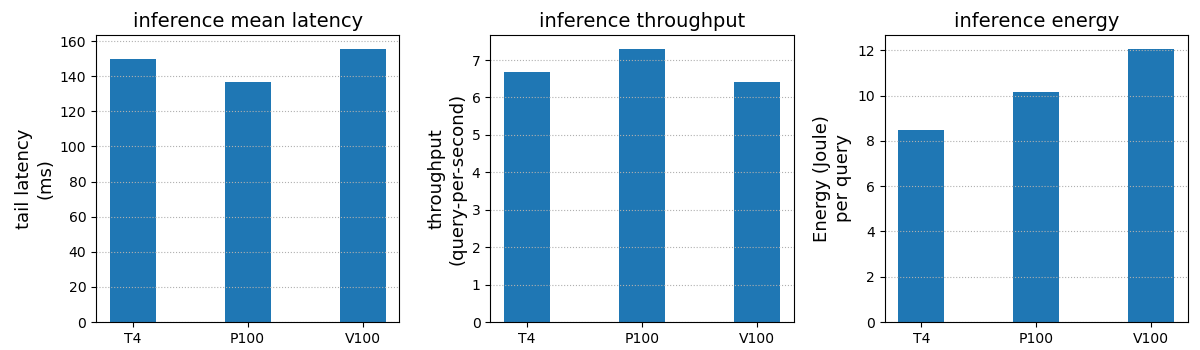
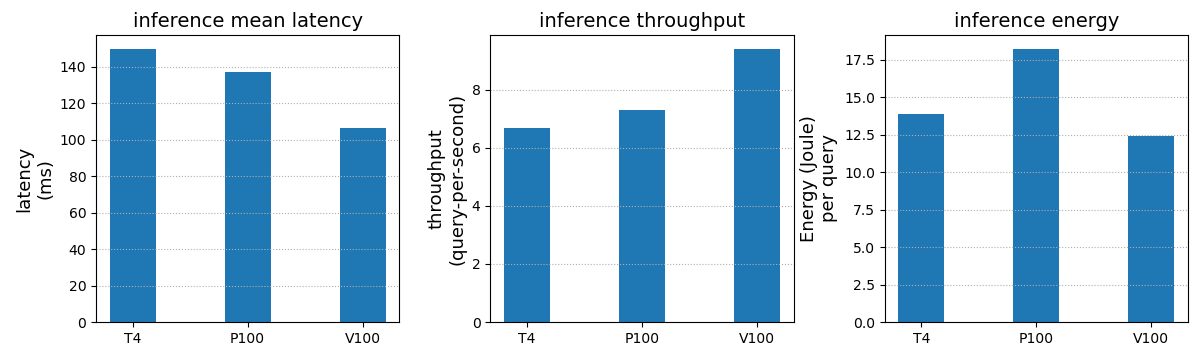
LP solver

diff --git a/experiments/solver/optimize.py b/experiments/solver/optimize.py
@@ -1,0 +1,31 @@
+from scipy.optimize import linprog
+import json
+import pdb
+import numpy as np
+
+with open('config.json') as f:
+    inputs = json.load(f)
+
+throughput = [-x for x in inputs['throughput_qps']]
+target_lat = inputs['target_lat']
+latency = [target_lat - x for x in inputs['latency_ms']]
+energy = inputs['energy_Jpq']
+
+############ optimization kernel ###############
+
+obj = energy
+lhs_ineq = [throughput, latency]
+rhs_ineq = [-inputs['target_qps'], 0]
+opt = linprog(c=obj, A_ub=lhs_ineq, b_ub=rhs_ineq, method='revised simplex')
+optima = np.ceil(opt.x)
+
+###############################################
+
+hardware = inputs['hardware']
+energy_opt = np.multiply(np.multiply(throughput,energy), optima)
+energy_opt = -sum(energy_opt)
+print(f'optimal energy: {energy_opt} (Joule) per second')
+for i, item in enumerate(hardware):
+    print(f'Use {int(optima[i])} {item}')
+
+

diff --git a/experiments/process.py b/experiments/process.py
@@ -39,7 +39,7 @@ axs[0].bar(x, lat_list, width=width) #TODO
 axs[0].set_xticks(x)
 axs[0].set_xticklabels(GPUs)
 axs[0].set_title('inference mean latency', fontsize=14)
-axs[0].set_ylabel('tail latency\n(ms)', fontsize=13)
+axs[0].set_ylabel('latency\n(ms)', fontsize=13)
 
 axs[1].bar(x, qps_list, width=width) #TODO
 axs[1].set_xticks(x)
@@ -55,7 +55,9 @@ for i, gpu in enumerate(gpus):
     else:
         path = f'logs/{gpu}_{batch_size}.csv'
         df = pandas.read_csv(path)
-        pwr = np.mean(df[column]) #- idle_pwr[i] #watt
+#        pwr = np.mean(df[column]) #- idle_pwr[i] #watt
+        pwr = np.percentile(df[column], 90)
+
     time = lat_list[i]/1000 #second
     energy_list.append(pwr*time)
 
